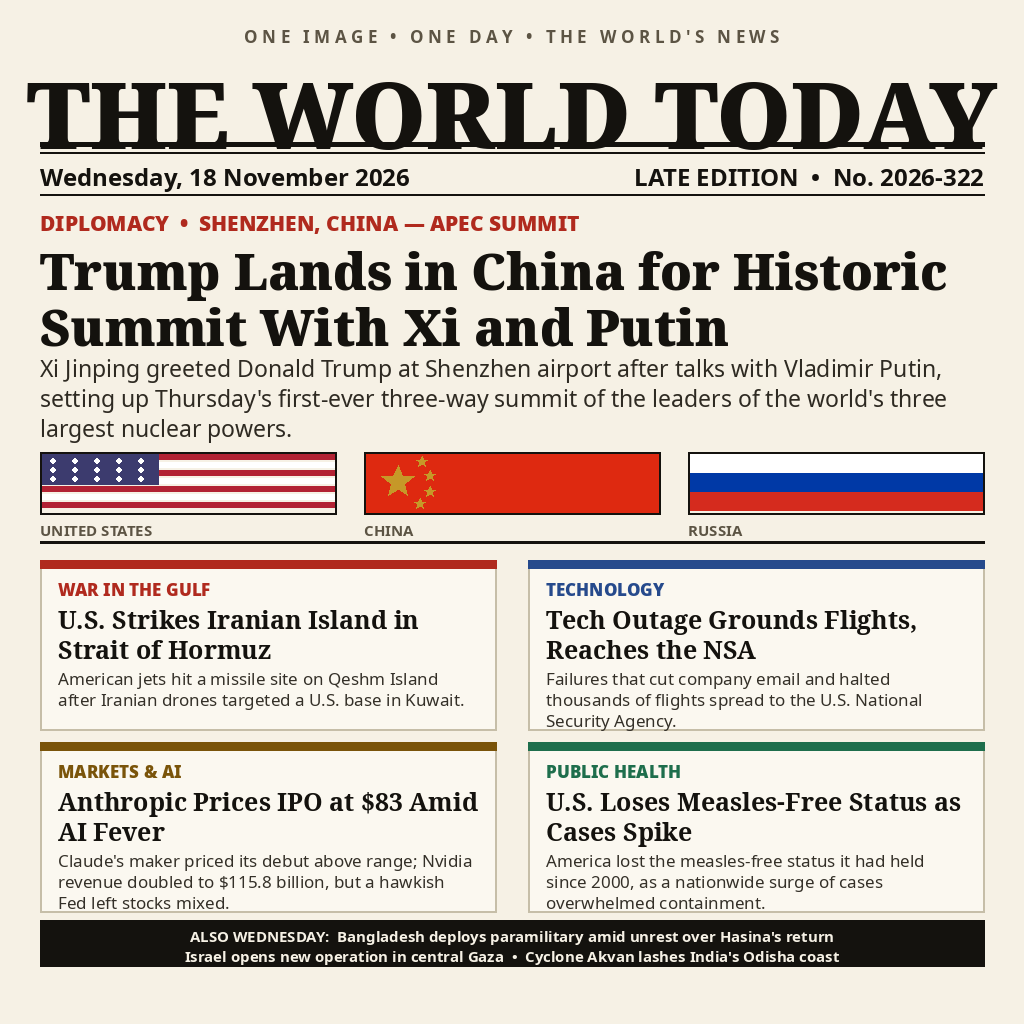
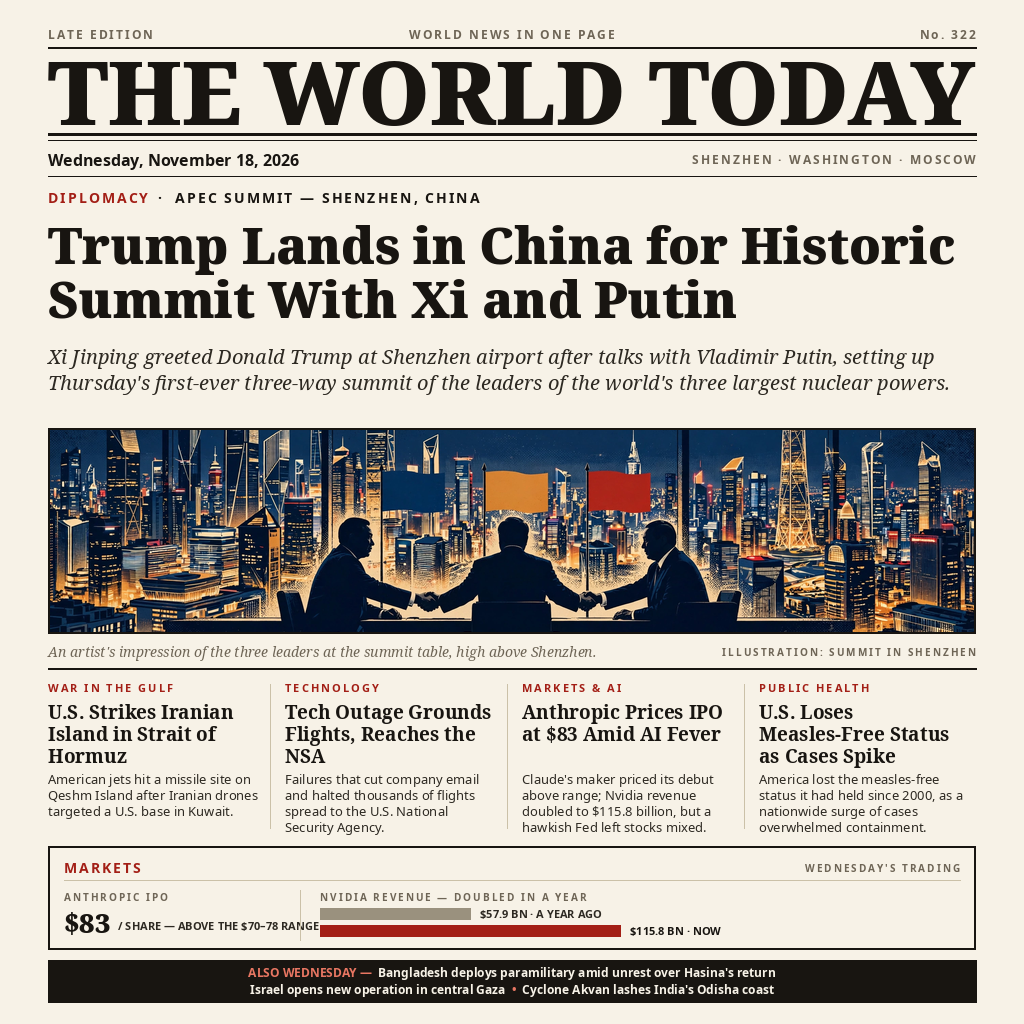
Redesign front page v2: premium broadsheet layout with summit illustration hero
- Full-width Noto Serif Black masthead, dateline strip, red-accent kickers
- Lead story carried by the committed summit illustration (assets/) with
  caption + credit; standfirst kept verbatim
- Four secondary stories in ruled columns; MARKETS box with Anthropic $83
  stat and Nvidia revenue bars ($57.9B -> $115.8B); ink ticker band
- entry.png: PNG 1024x1024, 513,048 bytes; main.ts behaviour unchanged

diff --git a/tools/make_image.py b/tools/make_image.py
@@ -1,24 +1,38 @@
 #!/usr/bin/env python3
 """Draw the 18 November 2026 'front page in one image' for news-image-20261118.
 
-Pure PIL, offline, deterministic: fixed layout, fixed text, no randomness,
-no external assets. Output: ../entry.png (1024x1024, <= 1 MiB).
+Version 2 — a full visual redesign in premium broadsheet style (Financial
+Times / NYT polish): warm off-white paper, black ink, one deep-red accent,
+a serif masthead, the lead story carried by an editorial illustration band,
+four secondary stories in ruled columns, a MARKETS data box with a bar
+visual for Nvidia's doubled revenue, and an ink ticker band at the foot.
+
+Same news content as v1 (researched and verified for Wednesday 18 Nov 2026).
+Pure PIL, offline, deterministic: fixed layout, fixed text, the only image
+asset is the committed illustration at ../assets/summit-illustration.webp.
+Output: ../entry.png (1024x1024, <= 1 MiB; PNG if it fits, else JPEG —
+the file name stays entry.png either way, format is read from magic bytes).
 """
 from PIL import Image, ImageDraw, ImageFont
-import math
 import os
 
 W = H = 1024
-PAPER = (246, 241, 229)
-INK = (20, 18, 14)
-MUTED = (92, 84, 68)
-RED = (176, 42, 30)
-BLUE = (38, 74, 140)
-GOLD = (198, 152, 40)
-PANEL_BG = (251, 248, 240)
-PANEL_EDGE = (198, 190, 168)
+M = 48                      # page margin
+CW = W - 2 * M              # content width = 928
+RIGHT = W - M
+
+PAPER = (247, 242, 231)     # warm off-white
+INK = (24, 21, 17)
+BODY = (45, 41, 34)
+MUTED = (110, 101, 86)
+FAINT = (203, 193, 168)     # hairline rules / dividers
+RED = (163, 31, 22)         # the one accent: deep red
+RED_ON_INK = (232, 118, 98) # accent legible on the black ticker band
+BAR_MUTED = (154, 145, 126)
 
 FONT_DIR = "/usr/share/fonts/truetype/noto"
+HERE = os.path.dirname(os.path.abspath(__file__))
+ART = os.path.join(HERE, "..", "assets", "summit-illustration.webp")
 
 
 def font(name, size):
@@ -27,9 +41,9 @@ def font(name, size):
 
 SERIF_BLACK = "NotoSerif-Black.ttf"
 SERIF_BOLD = "NotoSerif-Bold.ttf"
+SERIF_ITALIC = "NotoSerif-Italic.ttf"
 SANS = "NotoSans-Regular.ttf"
 SANS_BOLD = "NotoSans-Bold.ttf"
-SANS_BLACK = "NotoSans-Black.ttf"
 
 
 def wrap(draw, text, fnt, max_w):
@@ -49,123 +63,206 @@ def wrap(draw, text, fnt, max_w):
 
 def text_block(draw, x, y, text, fnt, fill, max_w, leading):
     for line in wrap(draw, text, fnt, max_w):
+        assert draw.textlength(line, font=fnt) <= max_w, f"overflow: {line!r}"
         draw.text((x, y), line, font=fnt, fill=fill)
         y += leading
     return y
 
 
-def centered(draw, cx, y, text, fnt, fill):
-    w_ = draw.textlength(text, font=fnt)
-    draw.text((cx - w_ / 2, y), text, font=fnt, fill=fill)
+def tracked_w(draw, text, fnt, tracking):
+    if not text:
+        return 0
+    return sum(draw.textlength(ch, font=fnt) for ch in text) + tracking * (len(text) - 1)
+
+
+def draw_tracked(draw, x, y, text, fnt, fill, tracking=2):
+    for ch in text:
+        draw.text((x, y), ch, font=fnt, fill=fill)
+        x += draw.textlength(ch, font=fnt) + tracking
+    return x - tracking if text else x
+
+
+def centered_tracked(draw, cx, y, text, fnt, fill, tracking=2):
+    x = cx - tracked_w(draw, text, fnt, tracking) / 2
+    draw_tracked(draw, x, y, text, fnt, fill, tracking)
+
+
+def fit_font(draw, text, name, start, max_w, step=2):
+    size = start
+    while size > 30 and draw.textlength(text, font=font(name, size)) > max_w:
+        size -= step
+    return font(name, size), size
 
 
 img = Image.new("RGB", (W, H), PAPER)
 d = ImageDraw.Draw(img)
-M = 40
-CW = W - 2 * M
+
+# ---------------------------------------------------------------- folio line
+FOLIO = font(SANS_BOLD, 12)
+draw_tracked(d, M, 26, "LATE EDITION", FOLIO, MUTED, 2)
+centered_tracked(d, W / 2, 26, "WORLD NEWS IN ONE PAGE", FOLIO, MUTED, 2)
+r = "No. 322"
+draw_tracked(d, RIGHT - tracked_w(d, r, FOLIO, 2), 26, r, FOLIO, MUTED, 2)
+d.line([(M, 47), (RIGHT, 47)], fill=INK, width=2)
 
 # ---------------------------------------------------------------- masthead
-centered(d, W / 2, 24, "O N E   I M A G E   •   O N E   D A Y   •   T H E   W O R L D ' S   N E W S",
-         font(SANS_BOLD, 17), MUTED)
-centered(d, W / 2, 50, "THE WORLD TODAY", font(SERIF_BLACK, 92), INK)
-d.line([(M, 144), (W - M, 144)], fill=INK, width=5)
-d.line([(M, 152), (W - M, 152)], fill=INK, width=2)
-d.text((M, 160), "Wednesday, 18 November 2026", font=font(SANS_BOLD, 24), fill=INK)
-r = "LATE EDITION  •  No. 2026-322"
-d.text((W - M - d.textlength(r, font=font(SANS_BOLD, 24)), 160), r,
-       font=font(SANS_BOLD, 24), fill=INK)
-d.line([(M, 194), (W - M, 194)], fill=INK, width=2)
+mast_f, mast_size = fit_font(d, "THE WORLD TODAY", SERIF_BLACK, 96, CW)
+mw = d.textlength("THE WORLD TODAY", font=mast_f)
+# Noto Serif Black's ink starts ~31px below the draw origin and the Y
+# descenders end ~96px below it at 88px, so origin 30 puts ink at 61..126,
+# clear of the folio rule above and the double rule at 134/140 below.
+d.text(((W - mw) / 2, 30), "THE WORLD TODAY", font=mast_f, fill=INK)
+d.line([(M, 134), (RIGHT, 134)], fill=INK, width=3)
+d.line([(M, 140), (RIGHT, 140)], fill=INK, width=1)
+
+# ---------------------------------------------------------------- dateline
+d.text((M, 148), "Wednesday, November 18, 2026", font=font(SANS_BOLD, 16), fill=INK)
+dl = "SHENZHEN · WASHINGTON · MOSCOW"
+dl_f = font(SANS_BOLD, 12)
+draw_tracked(d, RIGHT - tracked_w(d, dl, dl_f, 2), 151, dl, dl_f, MUTED, 2)
+d.line([(M, 176), (RIGHT, 176)], fill=INK, width=1)
 
 # ---------------------------------------------------------------- lead story
-d.text((M, 208), "DIPLOMACY  •  SHENZHEN, CHINA — APEC SUMMIT", font=font(SANS_BLACK, 21), fill=RED)
-hy = text_block(d, M, 236,
-                "Trump Lands in China for Historic Summit With Xi and Putin",
-                font(SERIF_BLACK, 50), INK, CW, 56)
-lead_sum = ("Xi Jinping greeted Donald Trump at Shenzhen airport after talks with Vladimir Putin, "
-            "setting up Thursday's first-ever three-way summit of the leaders of the world's "
-            "three largest nuclear powers.")
-sy = text_block(d, M, hy + 4, lead_sum, font(SANS, 23), (46, 42, 34), CW, 30)
+KICK = font(SANS_BOLD, 14)
+kx = draw_tracked(d, M, 188, "DIPLOMACY", KICK, RED, 2)
+draw_tracked(d, kx + 10, 188, "·  APEC SUMMIT — SHENZHEN, CHINA", KICK, INK, 2)
 
-# flags row: USA / China / Russia, simplified but recognisable
-FW, FH = 296, 62
-fy = sy + 10
-def flag_frame(x, label):
-    d.rectangle([x, fy, x + FW, fy + FH], outline=INK, width=2)
-    d.text((x, fy + FH + 5), label, font=font(SANS_BOLD, 15), fill=MUTED)
+HEADLINE = "Trump Lands in China for Historic Summit With Xi and Putin"
+head_f, head_size = None, None
+for size in (58, 56, 54, 52, 50):
+    f = font(SERIF_BLACK, size)
+    if len(wrap(d, HEADLINE, f, CW)) <= 2:
+        head_f, head_size = f, size
+        break
+assert head_f is not None, "lead headline does not fit in two lines"
+hy = text_block(d, M, 210, HEADLINE, head_f, INK, CW, head_size + 4)
+assert hy <= 336, f"headline overruns: ends {hy}"
 
-fx = M  # USA
-for i in range(7):
-    d.rectangle([fx + 2, fy + 2 + i * 8, fx + FW - 2, fy + 2 + i * 8 + 5],
-                fill=(178, 34, 52) if i % 2 == 0 else (255, 255, 255))
-d.rectangle([fx + 2, fy + 2, fx + 118, fy + 32], fill=(60, 59, 110))
-for r_ in range(3):
-    for c_ in range(5):
-        d.ellipse([fx + 10 + c_ * 22, fy + 6 + r_ * 9, fx + 15 + c_ * 22, fy + 11 + r_ * 9],
-                  fill=(255, 255, 255))
-flag_frame(fx, "UNITED STATES")
+STANDFIRST = ("Xi Jinping greeted Donald Trump at Shenzhen airport after talks with "
+              "Vladimir Putin, setting up Thursday's first-ever three-way summit of "
+              "the leaders of the world's three largest nuclear powers.")
+sy = text_block(d, M, 342, STANDFIRST, font(SERIF_ITALIC, 20), BODY, CW, 26)
+assert sy <= 424, f"standfirst overruns: ends {sy}"
 
-fx = M + FW + 28  # China
-d.rectangle([fx + 2, fy + 2, fx + FW - 2, fy + FH - 2], fill=(222, 41, 16))
-def star(cx, cy, r_):
-    pts = []
-    for i in range(10):
-        ang = -math.pi / 2 + i * math.pi / 5
-        rr = r_ if i % 2 == 0 else r_ * 0.42
-        pts.append((cx + rr * math.cos(ang), cy + rr * math.sin(ang)))
-    d.polygon(pts, fill=GOLD)
-star(fx + 34, fy + 30, 17)
-for dx, dy in ((58, 10), (66, 24), (66, 40), (56, 52)):
-    star(fx + dx, fy + dy, 6)
-flag_frame(fx, "CHINA")
+# ---------------------------------------------------------------- hero band
+HERO_Y, HERO_H = 428, 206
+art = Image.open(ART).convert("RGB")
+crop_h = int(art.width / (CW / HERO_H))
+y0 = 238
+hero = art.crop((0, y0, art.width, y0 + crop_h)).resize((CW, HERO_H), Image.LANCZOS)
+img.paste(hero, (M, HERO_Y))
+d.rectangle([M, HERO_Y, RIGHT - 1, HERO_Y + HERO_H - 1], outline=INK, width=2)
 
-fx = M + 2 * (FW + 28)  # Russia
-for i, col in enumerate(((255, 255, 255), (0, 57, 166), (213, 43, 30))):
-    d.rectangle([fx + 2, fy + 2 + i * 19, fx + FW - 2, fy + 2 + i * 19 + 18], fill=col)
-flag_frame(fx, "RUSSIA")
+CAP = "An artist's impression of the three leaders at the summit table, high above Shenzhen."
+cap_f = font(SERIF_ITALIC, 14)
+d.text((M, 642), CAP, font=cap_f, fill=MUTED)
+CRED = "ILLUSTRATION: SUMMIT IN SHENZHEN"
+cred_f = font(SANS_BOLD, 10)
+cred_w = tracked_w(d, CRED, cred_f, 2)
+assert d.textlength(CAP, font=cap_f) + cred_w + 24 <= CW, "caption/credit collide"
+draw_tracked(d, RIGHT - cred_w, 645, CRED, cred_f, MUTED, 2)
+d.line([(M, 668), (RIGHT, 668)], fill=INK, width=2)
 
-rule_y = fy + FH + 28
-d.line([(M, rule_y), (W - M, rule_y)], fill=INK, width=3)
-
-# ---------------------------------------------------------------- panels 2x2
-PANELS = [
-    ("WAR IN THE GULF", RED,
+# ---------------------------------------------------------------- secondary stories
+STORIES = [
+    ("WAR IN THE GULF",
      "U.S. Strikes Iranian Island in Strait of Hormuz",
      "American jets hit a missile site on Qeshm Island after Iranian drones "
      "targeted a U.S. base in Kuwait."),
-    ("TECHNOLOGY", BLUE,
+    ("TECHNOLOGY",
      "Tech Outage Grounds Flights, Reaches the NSA",
      "Failures that cut company email and halted thousands of flights spread "
      "to the U.S. National Security Agency."),
-    ("MARKETS & AI", (122, 84, 10),
+    ("MARKETS & AI",
      "Anthropic Prices IPO at $83 Amid AI Fever",
      "Claude's maker priced its debut above range; Nvidia revenue doubled to "
      "$115.8 billion, but a hawkish Fed left stocks mixed."),
-    ("PUBLIC HEALTH", (30, 110, 76),
+    ("PUBLIC HEALTH",
      "U.S. Loses Measles-Free Status as Cases Spike",
      "America lost the measles-free status it had held since 2000, as a "
      "nationwide surge of cases overwhelmed containment."),
 ]
-PW, PH, PG = 456, 170, 32
-PY = rule_y + 18
-for i, (kick, kcol, head, summ) in enumerate(PANELS):
-    x = M + (i % 2) * (PW + PG)
-    y = PY + (i // 2) * (PH + 12)
-    d.rectangle([x, y, x + PW, y + PH], fill=PANEL_BG, outline=PANEL_EDGE, width=2)
-    d.rectangle([x, y, x + PW, y + 8], fill=kcol)
-    d.text((x + 18, y + 17), kick, font=font(SANS_BLACK, 17), fill=kcol)
-    yy = text_block(d, x + 18, y + 42, head, font(SERIF_BOLD, 25), INK, PW - 36, 30)
-    text_block(d, x + 18, yy + 4, summ, font(SANS, 17), (52, 48, 40), PW - 36, 21)
+COL_W, COL_GAP = 215, 22
+STORY_Y = 680
+for i in range(1, 4):  # hairline column rules
+    rx = M + i * COL_W + (i - 0.5) * COL_GAP - 4
+    d.line([(rx, STORY_Y + 4), (rx, STORY_Y + 148)], fill=FAINT, width=1)
+for i, (kick, head, summ) in enumerate(STORIES):
+    x = M + i * (COL_W + COL_GAP)
+    draw_tracked(d, x, STORY_Y, kick, font(SANS_BOLD, 11), RED, 2)
+    hy2 = text_block(d, x, STORY_Y + 18, head, font(SERIF_BOLD, 19), INK, COL_W, 22)
+    assert hy2 <= STORY_Y + 86, f"story headline overruns: {head!r} ends {hy2}"
+    ey = text_block(d, x, STORY_Y + 90, summ, font(SANS, 13), BODY, COL_W, 16)
+    assert ey <= STORY_Y + 158, f"story summary overruns: {head!r} ends {ey}"
+
+# ---------------------------------------------------------------- markets box
+BOX_Y, BOX_H = 846, 104
+d.rectangle([M, BOX_Y, RIGHT - 1, BOX_Y + BOX_H - 1], outline=INK, width=2)
+draw_tracked(d, M + 16, BOX_Y + 12, "MARKETS", font(SANS_BOLD, 14), RED, 2)
+mh = "WEDNESDAY'S TRADING"
+mh_f = font(SANS_BOLD, 10)
+draw_tracked(d, RIGHT - 16 - tracked_w(d, mh, mh_f, 2), BOX_Y + 15, mh, mh_f, MUTED, 2)
+d.line([(M + 16, BOX_Y + 34), (RIGHT - 16, BOX_Y + 34)], fill=FAINT, width=1)
+
+# Anthropic stat
+lab_f = font(SANS_BOLD, 10)
+draw_tracked(d, M + 16, BOX_Y + 44, "ANTHROPIC IPO", lab_f, MUTED, 2)
+num_f = font(SERIF_BLACK, 27)
+d.text((M + 16, BOX_Y + 58), "$83", font=num_f, fill=INK)
+nw = d.textlength("$83", font=num_f)
+d.text((M + 16 + nw + 8, BOX_Y + 72), "/ SHARE — ABOVE THE $70–78 RANGE",
+       font=font(SANS_BOLD, 11), fill=BODY)
+d.line([(M + 252, BOX_Y + 44), (M + 252, BOX_Y + 94)], fill=FAINT, width=1)
+
+# Nvidia bars: revenue doubled to $115.8B, so a year ago ≈ $57.9B
+NX = M + 272
+draw_tracked(d, NX, BOX_Y + 44, "NVIDIA REVENUE — DOUBLED IN A YEAR", lab_f, MUTED, 2)
+bar_f = font(SANS_BOLD, 11)
+d.rectangle([NX, BOX_Y + 62, NX + 150, BOX_Y + 73], fill=BAR_MUTED)
+d.text((NX + 160, BOX_Y + 60), "$57.9 BN · A YEAR AGO", font=bar_f, fill=BODY)
+d.rectangle([NX, BOX_Y + 79, NX + 300, BOX_Y + 90], fill=RED)
+d.text((NX + 310, BOX_Y + 77), "$115.8 BN · NOW", font=bar_f, fill=INK)
+assert NX + 300 + 10 + d.textlength("$115.8 BN · NOW", font=bar_f) <= RIGHT - 16
 
 # ---------------------------------------------------------------- ticker band
-TY = PY + 2 * PH + 12 + 8
-d.rectangle([M, TY, W - M, TY + 46], fill=INK)
-centered(d, W / 2, TY + 5,
-         "ALSO WEDNESDAY:  Bangladesh deploys paramilitary amid unrest over Hasina's return",
-         font(SANS_BOLD, 15), PAPER)
-centered(d, W / 2, TY + 25,
-         "Israel opens new operation in central Gaza  •  Cyclone Akvan lashes India's Odisha coast",
-         font(SANS_BOLD, 15), PAPER)
+TICK_Y, TICK_H = 960, 42
+d.rectangle([M, TICK_Y, RIGHT, TICK_Y + TICK_H], fill=INK)
+tick_f = font(SANS_BOLD, 12)
 
-out = os.path.join(os.path.dirname(os.path.abspath(__file__)), "..", "entry.png")
+
+def segmented_centered(y, segments):
+    """segments: list of (text, fill); drawn as one centred line."""
+    total = sum(d.textlength(t, font=tick_f) for t, _ in segments)
+    assert total <= CW - 24, f"ticker line too wide: {total}"
+    x = (W - total) / 2
+    for t, fill in segments:
+        d.text((x, y), t, font=tick_f, fill=fill)
+        x += d.textlength(t, font=tick_f)
+
+
+segmented_centered(TICK_Y + 4, [
+    ("ALSO WEDNESDAY —  ", RED_ON_INK),
+    ("Bangladesh deploys paramilitary amid unrest over Hasina's return", PAPER),
+])
+segmented_centered(TICK_Y + 21, [
+    ("Israel opens new operation in central Gaza", PAPER),
+    ("  •  ", RED_ON_INK),
+    ("Cyclone Akvan lashes India's Odisha coast", PAPER),
+])
+
+# ---------------------------------------------------------------- save
+out = os.path.join(HERE, "..", "entry.png")
 img.save(out, optimize=True)
-print("wrote", out, os.path.getsize(out), "bytes")
+size = os.path.getsize(out)
+fmt = "PNG"
+if size > 1_048_576:  # photo-like illustration: fall back to JPEG under the cap
+    q = 88
+    while True:
+        img.save(out, format="JPEG", quality=q, optimize=True)
+        size = os.path.getsize(out)
+        if size <= 1_048_576 or q <= 70:
+            break
+        q -= 3
+    fmt = f"JPEG q={q}"
+assert size <= 1_048_576, f"entry.png still too big: {size}"
+print(f"wrote {out}: {fmt}, 1024x1024, {size} bytes; masthead {mast_size}px, headline {head_size}px")

diff --git a/README.md b/README.md
@@ -94,3 +94,19 @@ Final image: `entry.png`, PNG, 1024×1024, ~146 KB.
 ## License
 
 MIT — see `LICENSE`.
+
+## Design refresh (v2)
+
+The page was redesigned in premium broadsheet style (Financial Times / NYT
+polish): warm off-white paper, black ink, a single deep-red accent, a
+full-width Noto Serif Black masthead over a double rule, and a dateline
+strip. The lead story is now carried by an editorial illustration band —
+three leaders silhouetted at a summit table above the Shenzhen skyline,
+committed at `assets/summit-illustration.webp` and cropped into the page
+by `tools/make_image.py` — with an italic caption and credit line. The
+four secondary stories run in ruled columns with red small-caps kickers,
+a MARKETS data box pairs the Anthropic $83 IPO price with a bar visual of
+Nvidia's doubled revenue ($57.9B → $115.8B), and the ticker items close
+the page in an ink band at the foot. Same stories, same facts as v1.
+
+Final image: `entry.png`, PNG, 1024×1024, ~513 KB.
